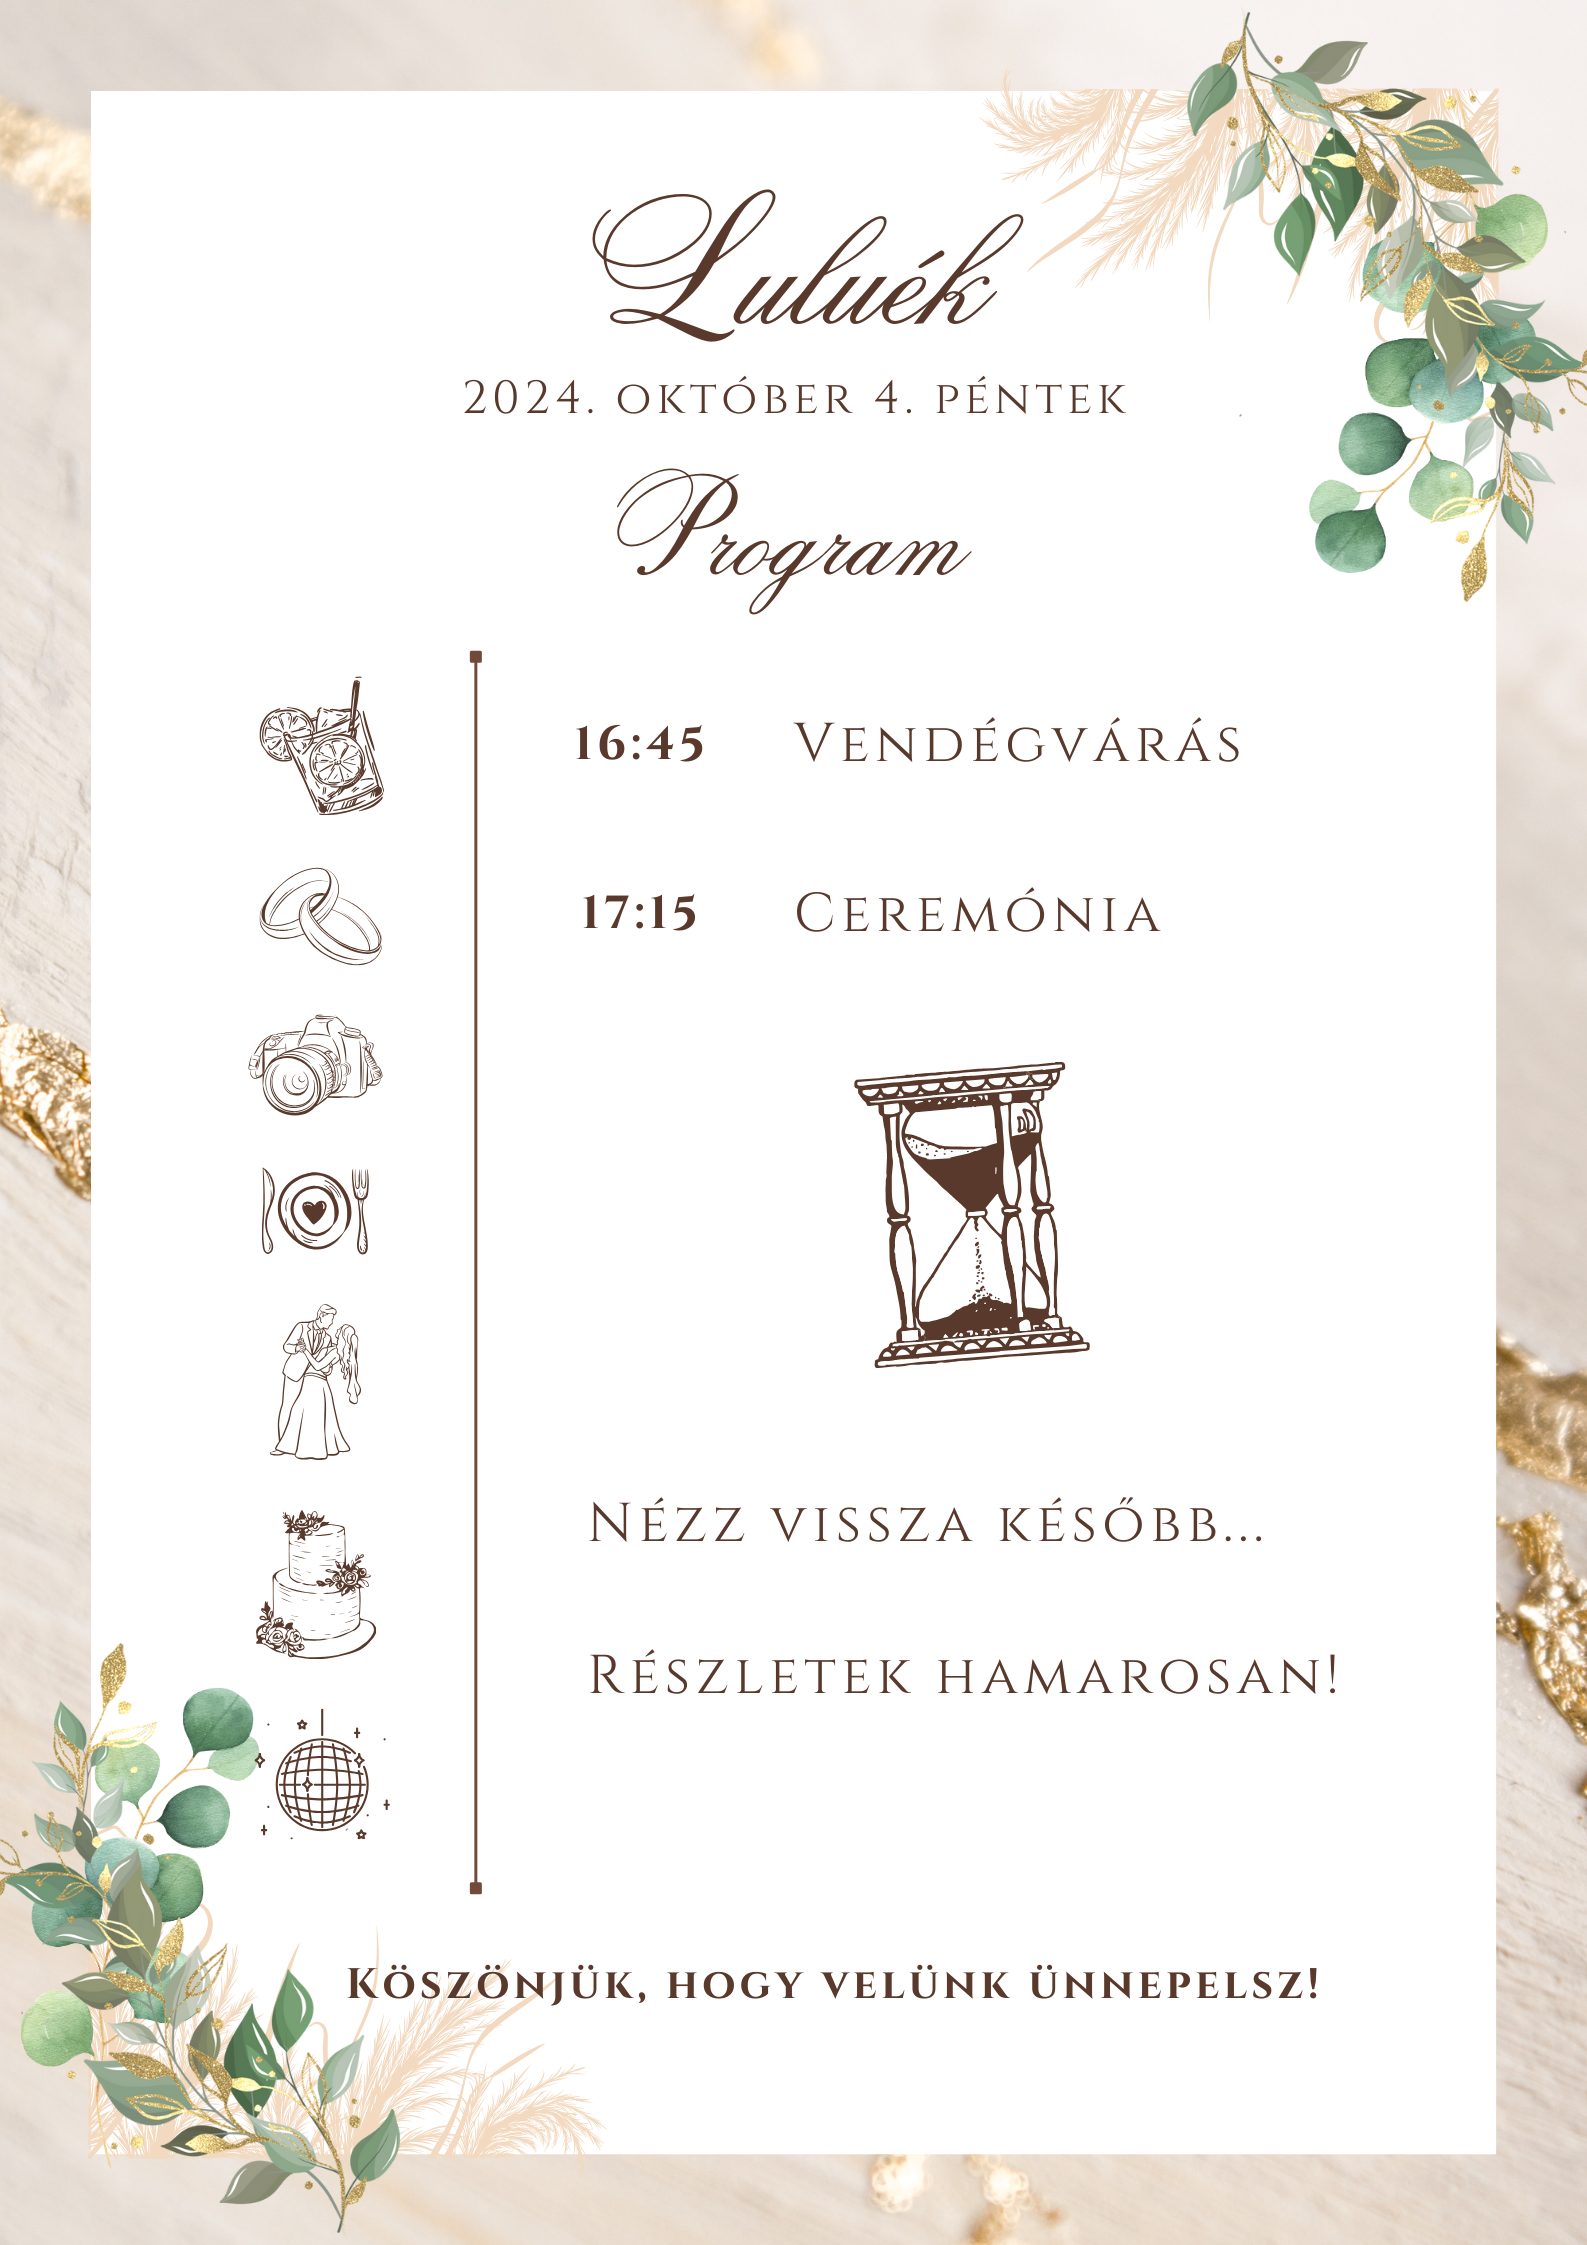
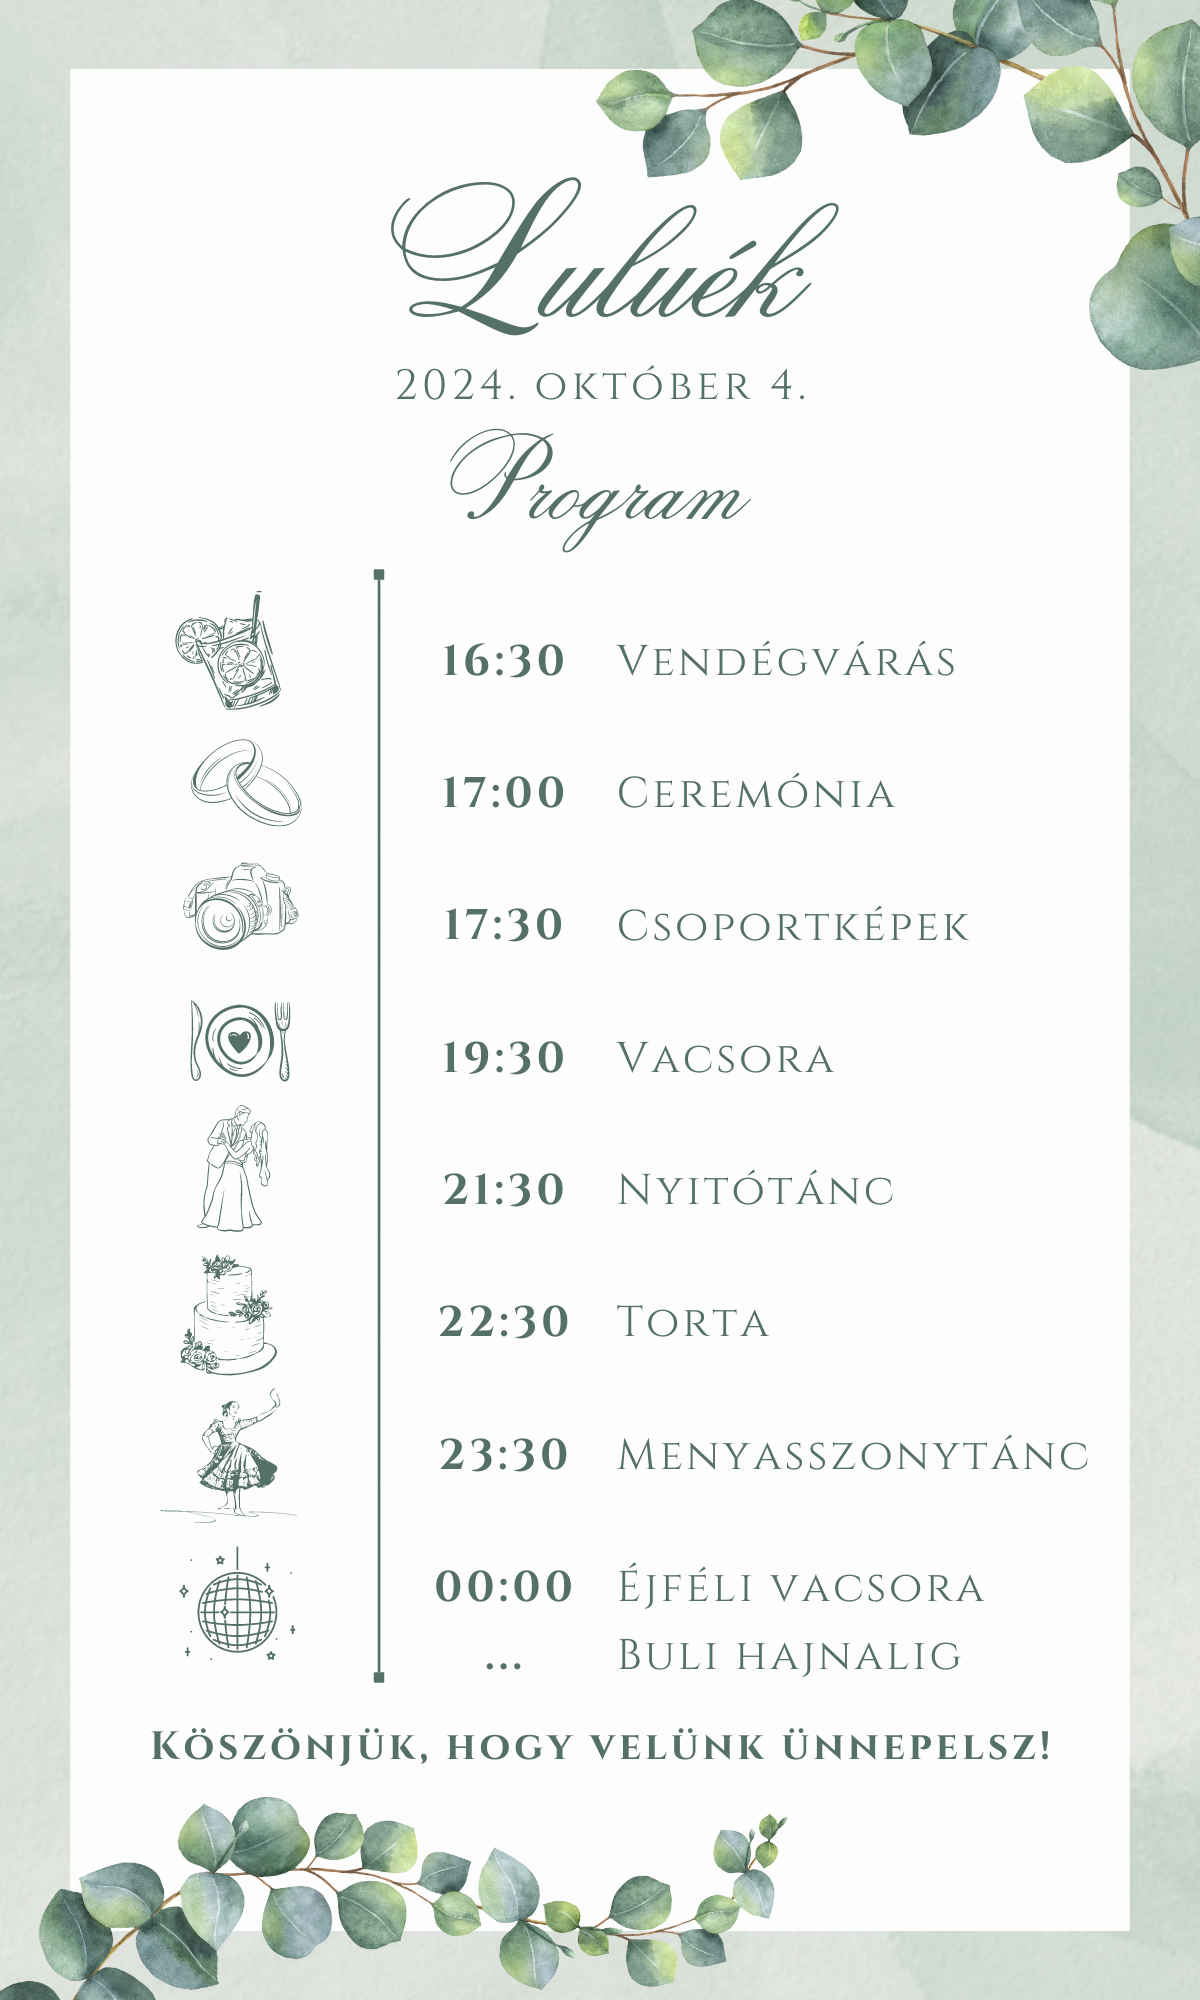
update with details

diff --git a/src/cards/Program.tsx b/src/cards/Program.tsx
@@ -6,6 +6,12 @@ import Card from '@/components/Card';
 const Program = (props) => (
   <Card id="program" style={props.style} onCloseArticle={props.onCloseArticle} articleClassName={props.articleClassName}>
     <h2 className="major">Program</h2>
+    <p style={{ textAlign: 'center', fontSize: '0.8rem' }}>
+      Ha kérdésed lenne az esküvő napján, a ceremóniamestert keresd az alábbi telefonszámon:<br />
+      Mostbacher Antal (Anti)<br />
+      Tel.: +36 30 679 9944<br />
+    </p>
+
     <span className="image main">
       <StaticImage formats={['auto', 'webp']} src="../../static/assets/program.png" alt="Program" />
     </span>

diff --git a/src/cards/Venue.tsx b/src/cards/Venue.tsx
@@ -22,7 +22,7 @@ const Venue = (props) => {
 
       <h4 style={{ textAlign: 'center', paddingTop: '2rem' }}>
         <a
-          href="https://ul.waze.com/ul?preview_venue_id=12452315.124654223.5259128&navigate=yes&utm_campaign=default&utm_source=waze_website&utm_medium=lm_share_location"
+          href="https://waze.com/ul/hu2mw2b0d2"
           target="_blank" rel="noopener noreferrer">
           Vezess ide waze!
         </a>

diff --git a/src/cards/Menu.tsx b/src/cards/Menu.tsx
@@ -9,10 +9,6 @@ const Menu = (props) => (
     <span className="image main">
       <StaticImage formats={['auto', 'webp']} src="../../static/assets/menu.png" alt="Menu" />
     </span>
-
-    <span className="image main">
-      <StaticImage formats={['auto', 'webp']} src="../../static/assets/drink.png" alt="Menu" />
-    </span>
   </Card>
 );
 
